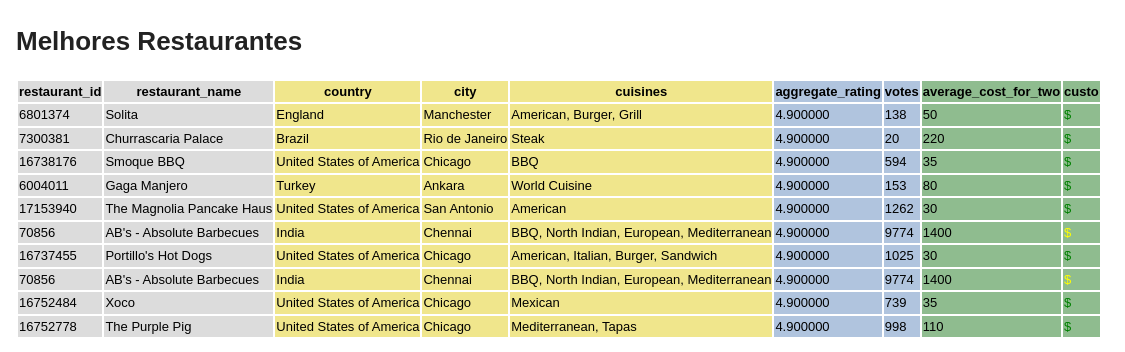
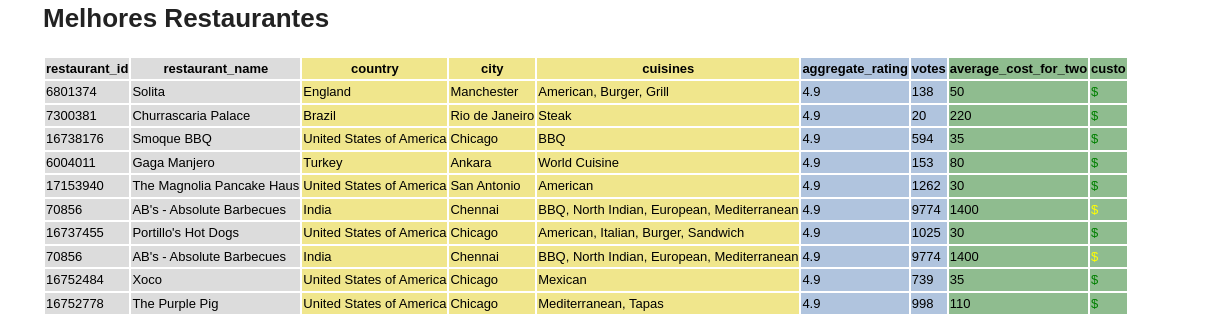
mod image

diff --git a/relatorio-por-email.py b/relatorio-por-email.py
@@ -44,6 +44,8 @@ def main():
                         .sort_values('aggregate_rating',ascending=False)
 
         relatorio = dados.head(10)
+        relatorio['aggregate_rating'] = relatorio['aggregate_rating'].round(2)
+        relatorio['aggregate_rating'] = relatorio['aggregate_rating'].astype(str)
         relatorio['custo'] = '$'
         relatorio = relatorio[['restaurant_id',
                         'restaurant_name',
